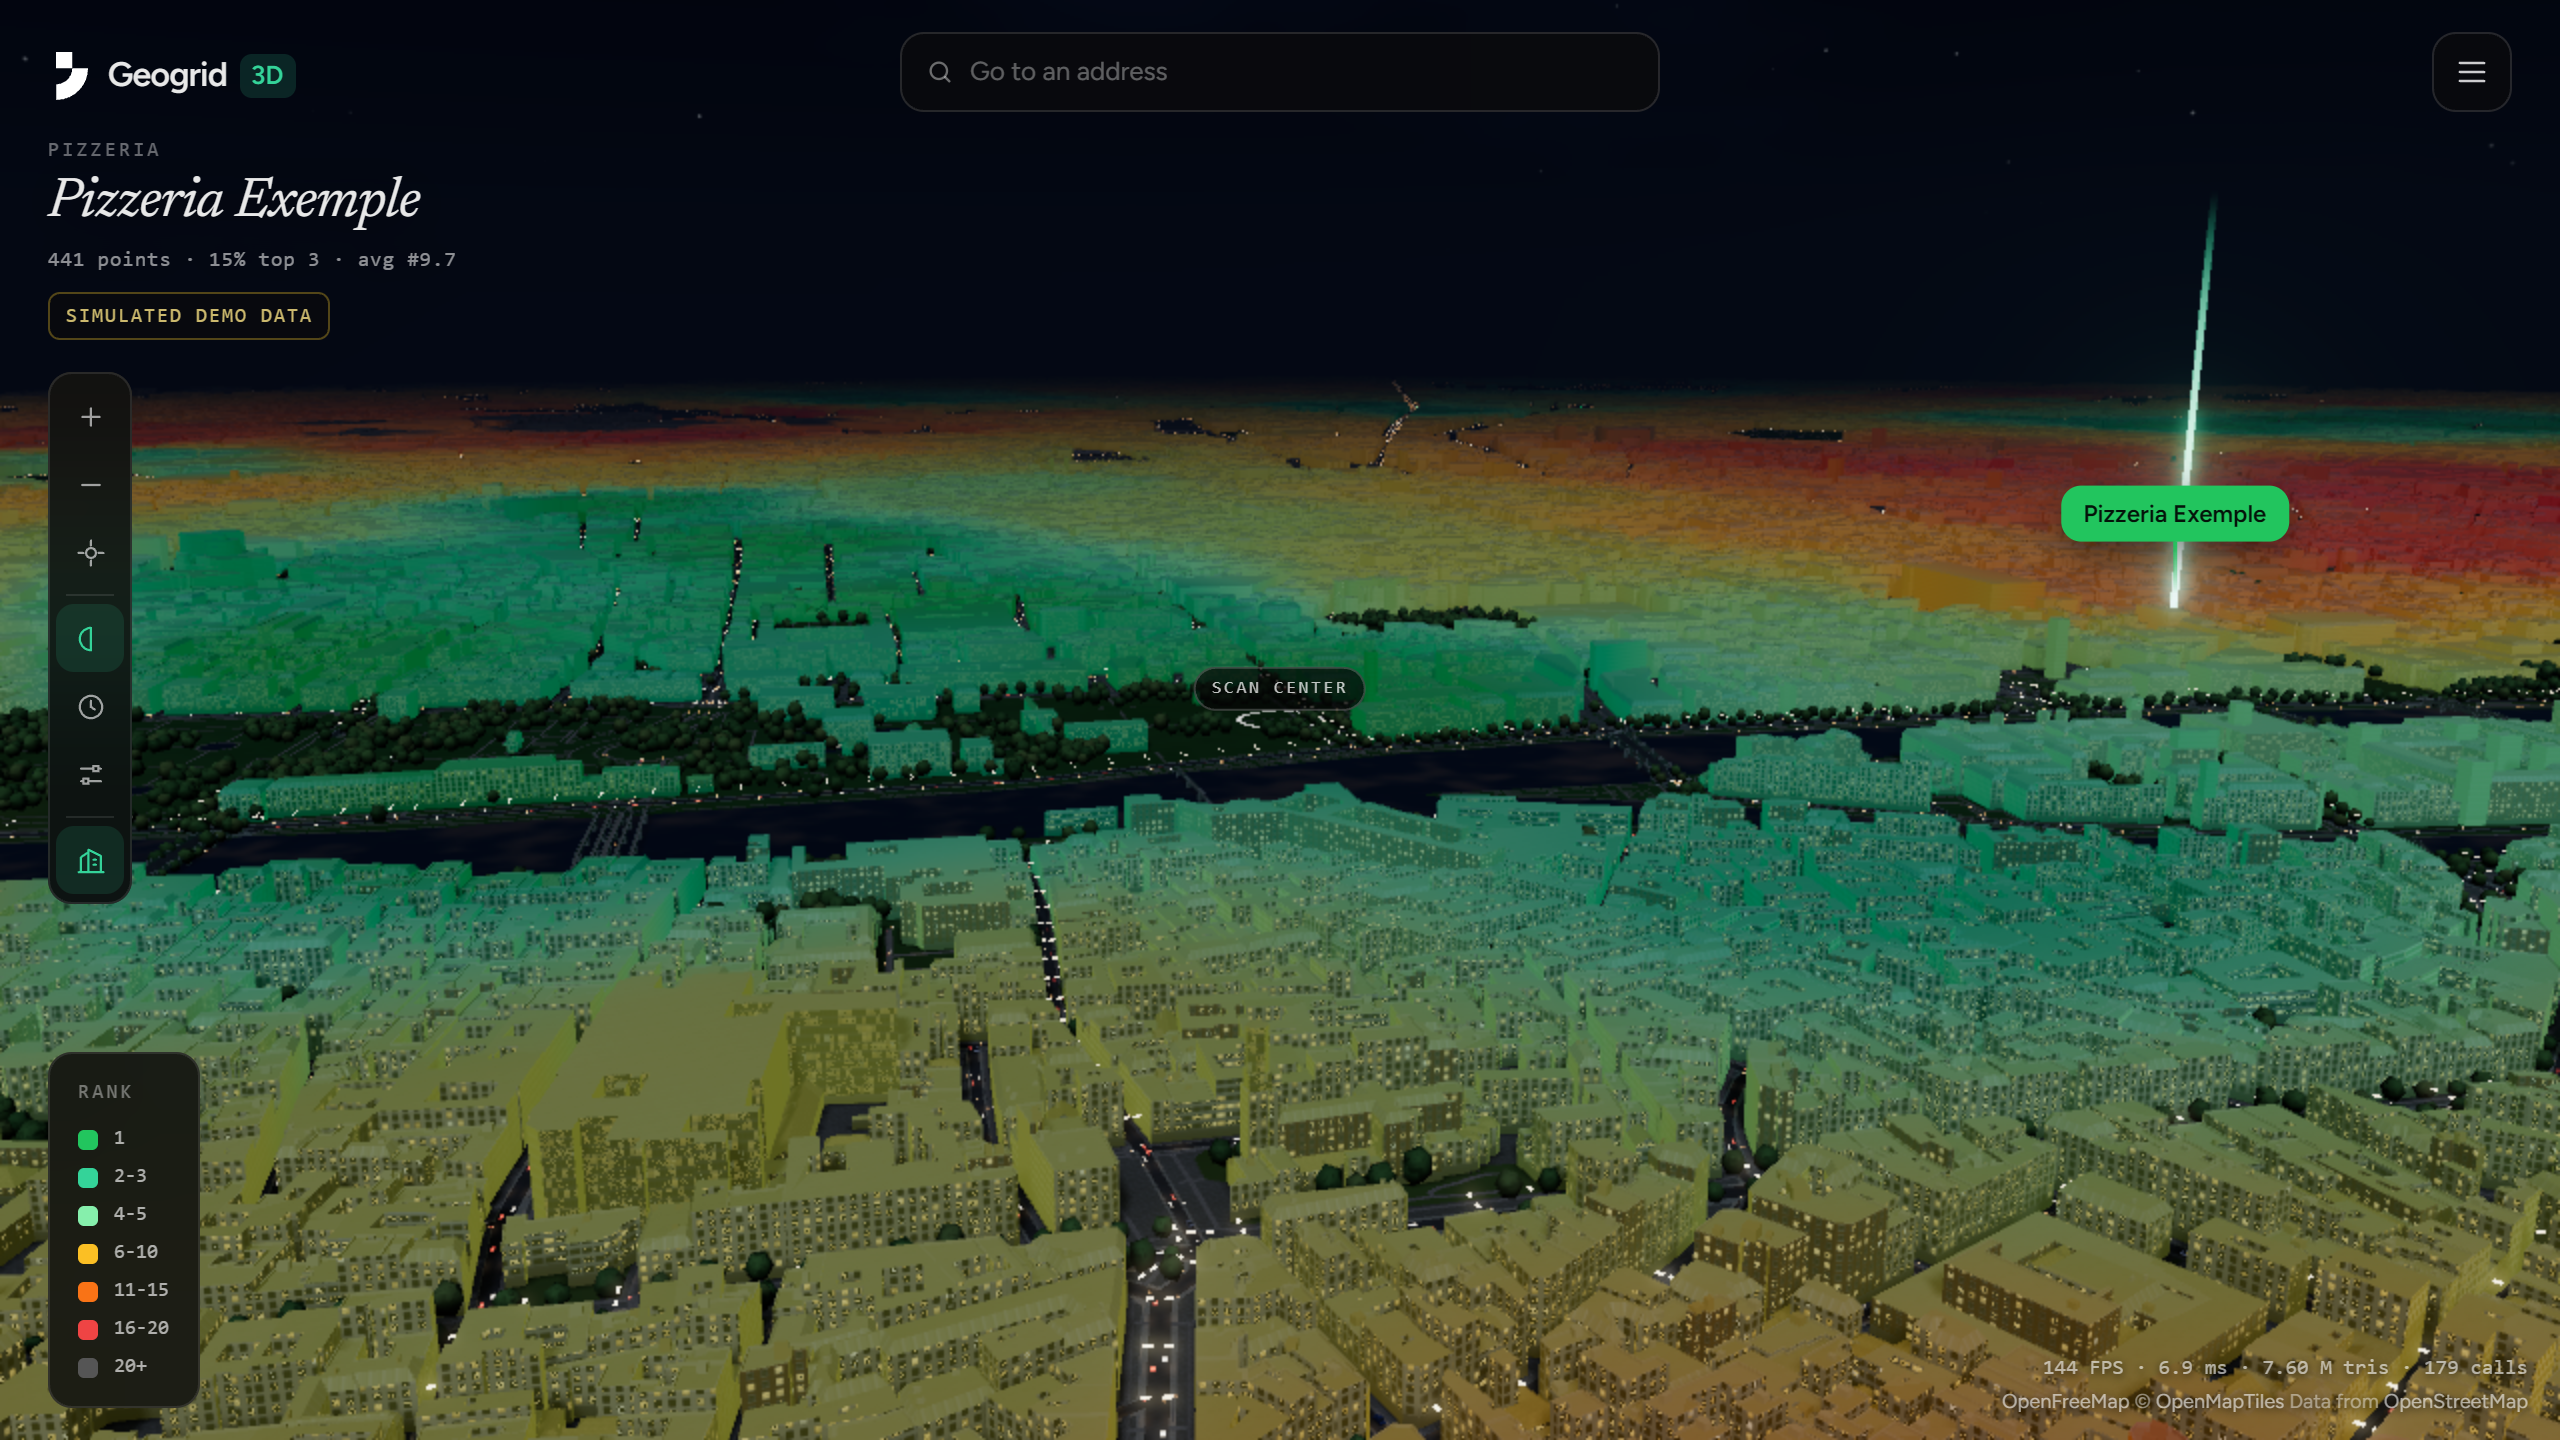
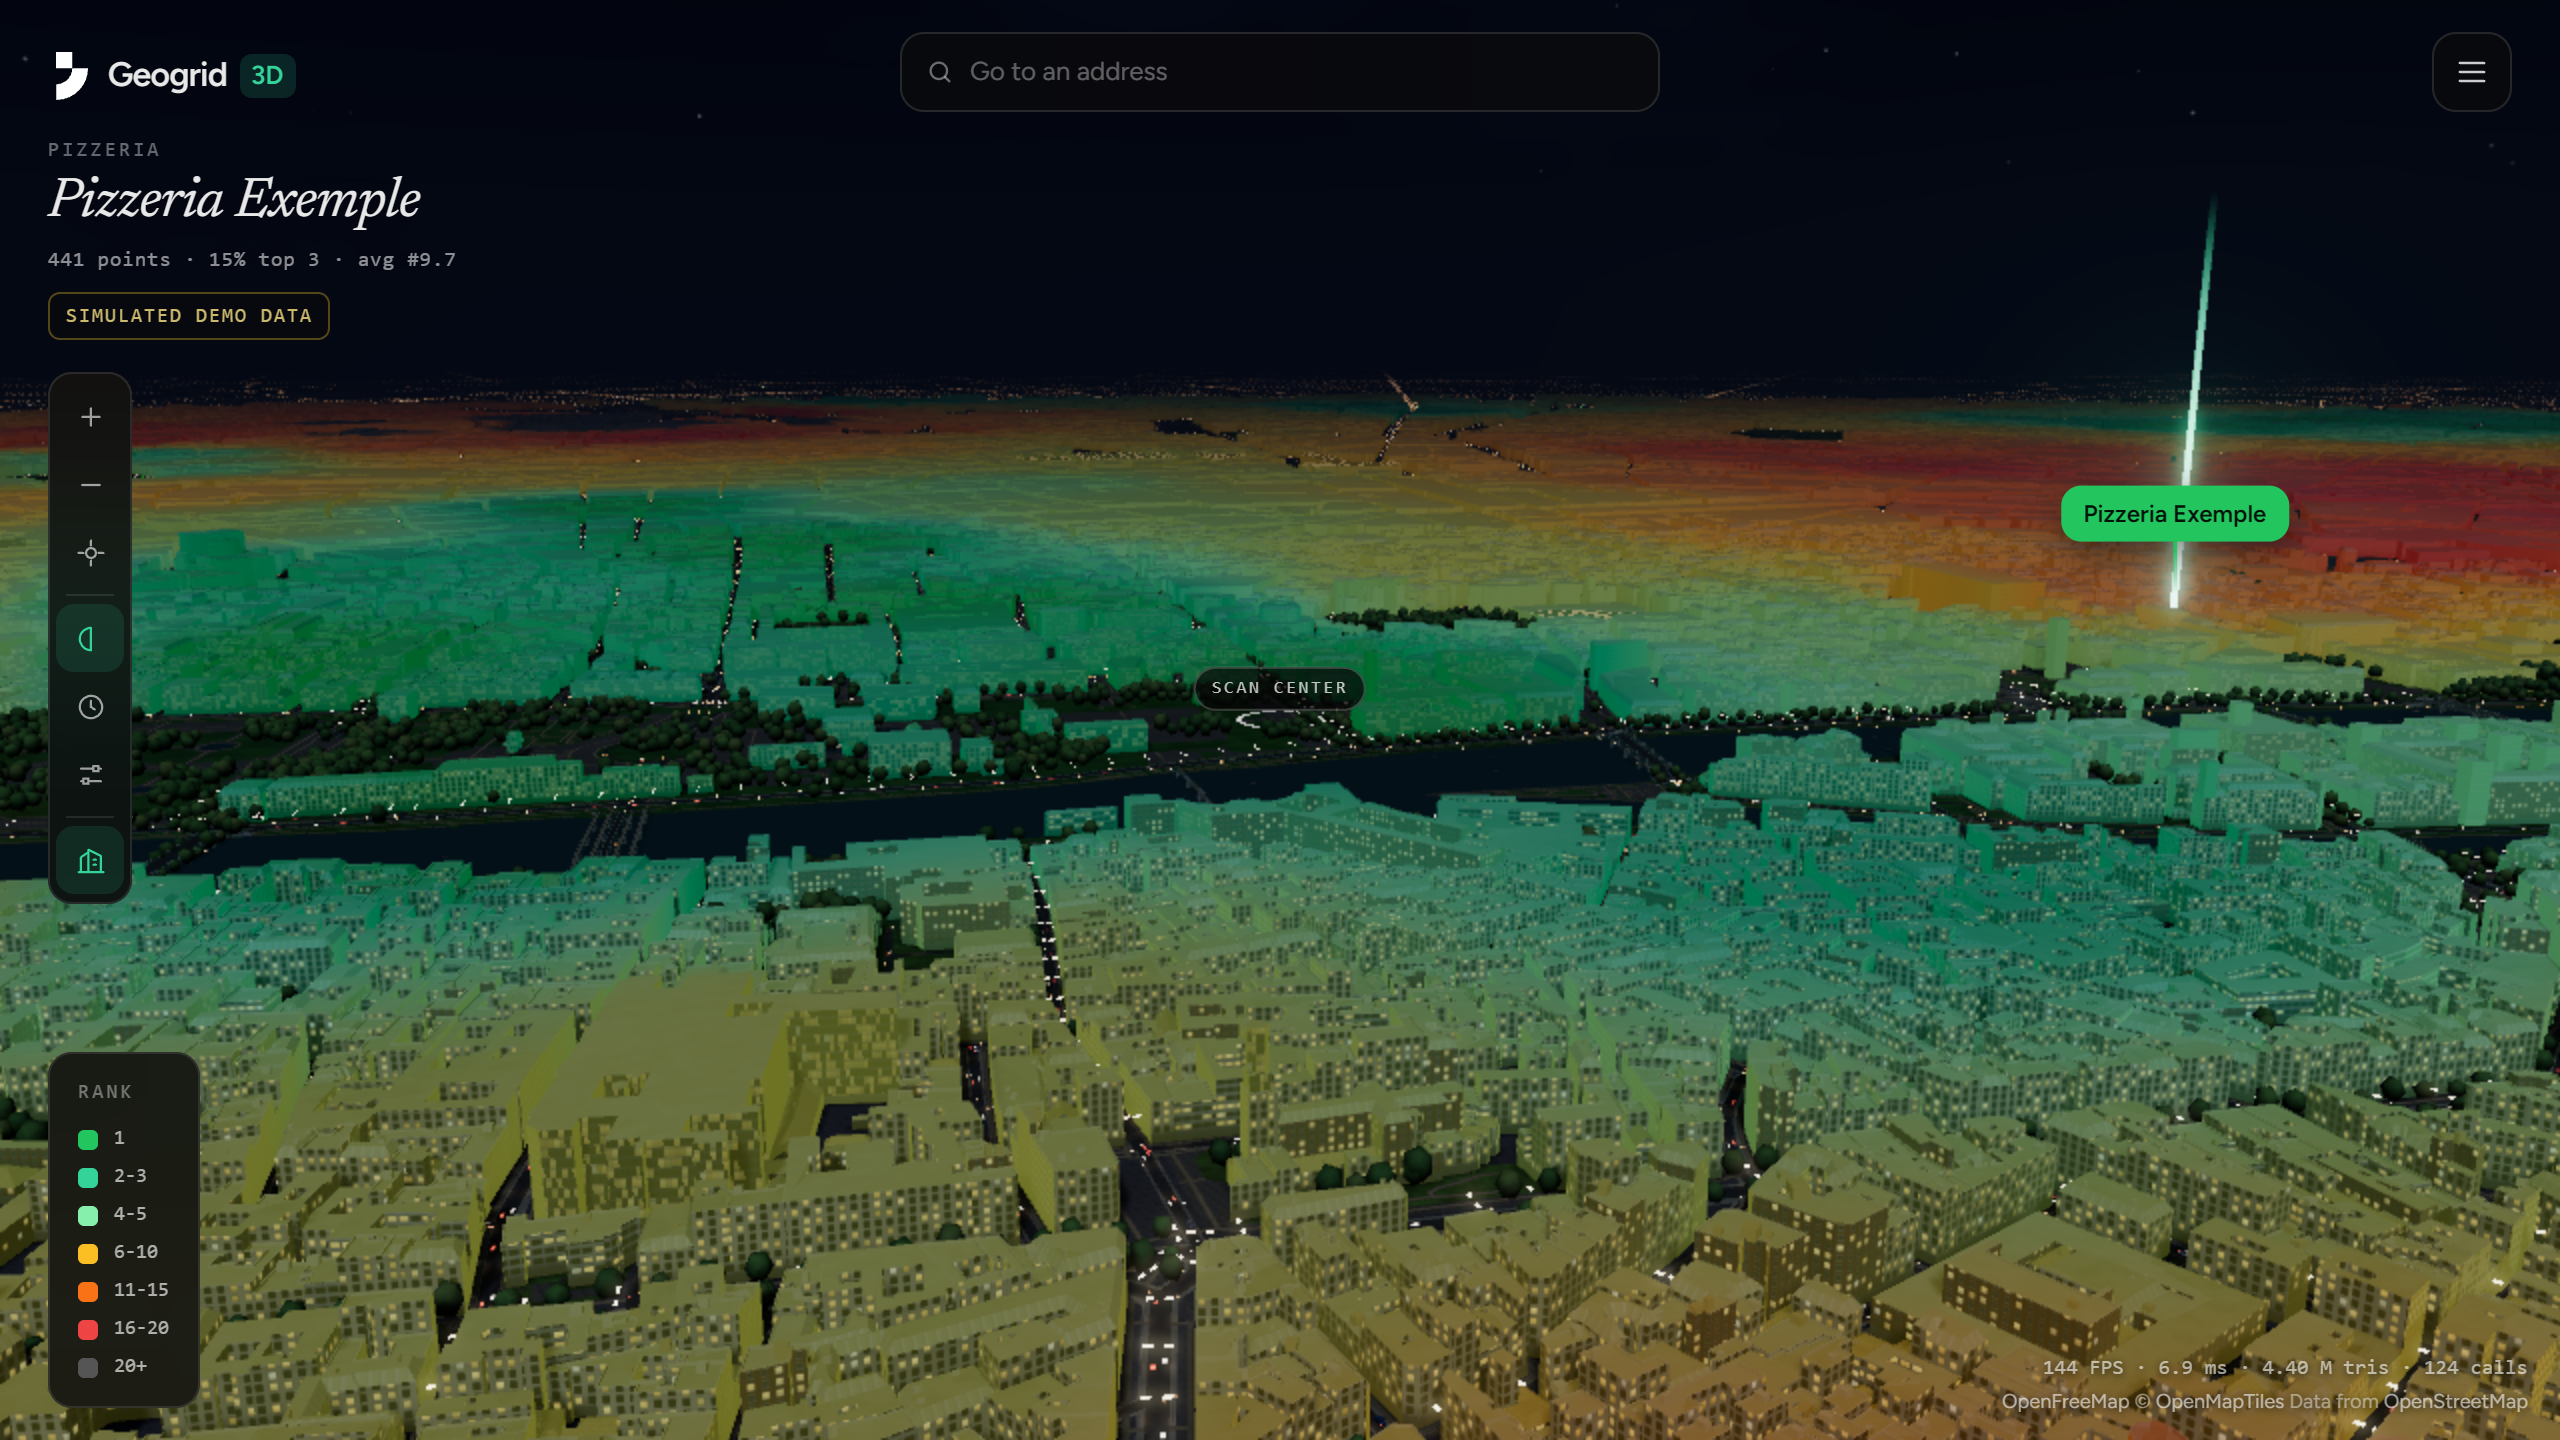
docs(3d): captures refaites après la deuxième passe, notes (cause du grain des fenêtres, détail par distance à la caméra, sols et eau, voies ferrées, limites des données)

diff --git a/README.md b/README.md
@@ -54,7 +54,7 @@ Je ne l'ai pas réutilisé, pour trois raisons : c'est son propre moteur, pas un
 
 ## Fonctionnalités
 
-- **Ville 3D** : bâtiments, routes, eau et parcs d'OpenStreetMap, chargés là où regarde la caméra et fondus dans le brouillard au loin, sans limite visible. Toits (tuiles, zinc, terrasses), cheminées, marquages au sol, arbres, lampadaires et voitures sont générés.
+- **Ville 3D** : bâtiments, routes, eau et parcs d'OpenStreetMap, détaillés selon la distance à la caméra et prolongés jusqu'au brouillard, sans limite visible. Toits (tuiles, zinc, terrasses, verrières de gare), cheminées, marquages au sol, herbe, allées, pavés, voies ferrées et quais, arbres, lampadaires et voitures sont générés, avec des textures dessinées au démarrage.
 - **Chargement et visite rapide** : un écran de chargement pendant la construction de la ville, puis une visite en 3 étapes la première fois (déplacement, clic sur un immeuble, modes et couleurs). Elle ne revient pas ensuite.
 - **Compteur FPS** : en bas à droite de la vue 3D.
 - **Modes d'affichage** : Standard (nuit brumeuse), Real time (soleil selon l'heure et le lieu du scan), Dusk, Day et Night. En Standard et Night, vue de haut, la ville s'allume d'un point par lampadaire.
